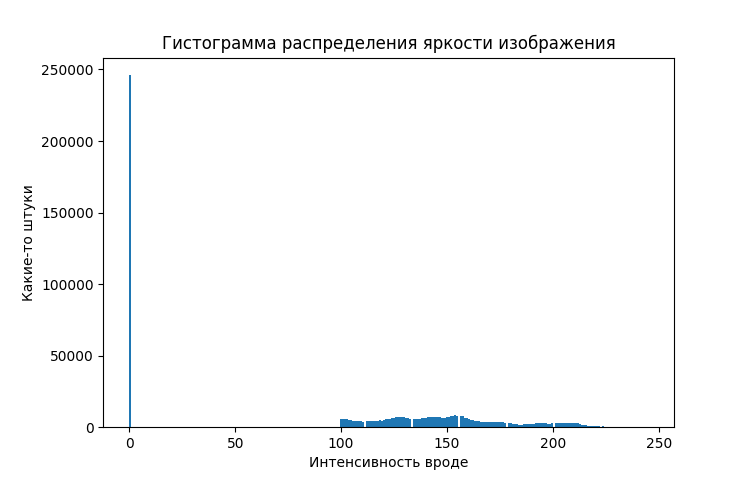
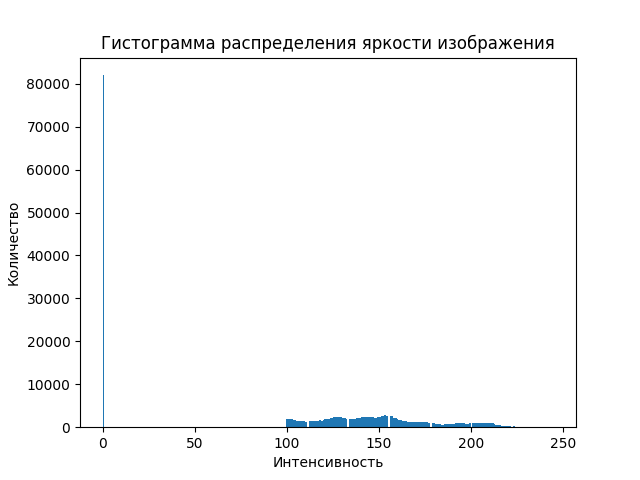
Исправленный вариант (убраны циклы)

diff --git a/main.py b/main.py
@@ -7,29 +7,18 @@ import matplotlib.figure as figure
 from skimage import io
 
 def toGrayscaled(arr):
-    newArr = np.empty(shape=arr.shape)
-    for i in range(512):
-        for j in range(512):
-            list = arr[i, j]*[0.299, 0.587, 0.114]
-            tmp = list[0]+list[1]+list[2]
-            newArr[i, j] += [tmp, tmp, tmp]
-    newArr = newArr.astype(int)
-    img = Image.fromarray(newArr.astype(np.uint8))
+    arr = arr*[0.299, 0.587, 0.114]
+    arr = arr.sum(2)
+    img = Image.fromarray(arr.astype(np.uint8))
     img.save('Lena_grayscaled.png')
     return
 
 
 def toThresholded(arr):
-    newArr = np.empty(shape=arr.shape)
-    for i in range(512):
-        for j in range(512):
-            for k in range(3):
-                if arr[i, j, k] < 100:
-                    newArr[i, j, k] = 0
-                else:
-                    newArr[i, j, k] = arr[i, j, k]
-    newArr = newArr.astype(int)
-    img = Image.fromarray(newArr.astype(np.uint8))
+    mask = (arr >= 100).astype(int)
+    arr = arr*mask
+    arr = arr.astype(int)
+    img = Image.fromarray(arr.astype(np.uint8))
     img.save('Lena_thresholded.png')
     return
 
@@ -45,7 +34,7 @@ if re.match(r'^.+\.png$', path) and os.path.exists(path):
     print(arr.max(0).max(0))
     print('Средние значения: ')
     tmp = np.asarray([arr.size/3, arr.size/3, arr.size/3])
-    print((arr.sum(0).sum(0)//tmp).astype(int))
+    print(arr.mean(0).mean(0).astype(int))
 
     toGrayscaled(arr)
     arr = np.asarray(Image.open('Lena_grayscaled.png'))
@@ -53,8 +42,8 @@ if re.match(r'^.+\.png$', path) and os.path.exists(path):
 
     image = io.imread('Lena_thresholded.png')
     ax = plt.hist(image.ravel(), bins=256)
-    plt.xlabel('Интенсивность вроде')
-    plt.ylabel('Какие-то штуки')
+    plt.xlabel('Интенсивность')
+    plt.ylabel('Количество')
     plt.title('Гистограмма распределения яркости изображения')
     plt.show()
     Output: figure
